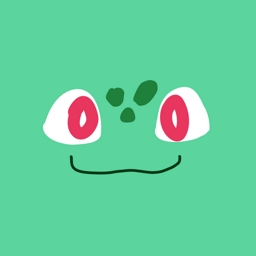
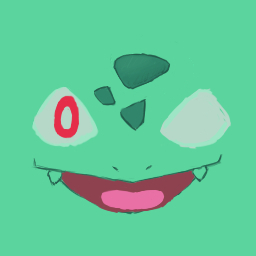
rework

Changed region(s): [[0.125, 0.1875, 0.9062, 0.8438]]

diff --git a/index.js b/index.js
@@ -5,7 +5,10 @@ var client = new Discordie({autoReconnect: true});
 var fs = require('file-system');
 
 var express = require('express');
+var ejs = require('ejs');
 var app = express();
+
+var http = require('http');
 
 var key = "~";
 
@@ -20,20 +23,41 @@ app.set('views', __dirname + '/views');
 app.set('view engine', 'ejs');
 
 app.get('/', function(request, response) {
-  response.render('pages/index');
+    response.render('pages/index');
 });
 
 app.listen(app.get('port'), function() {
   console.log('Node app is running on port', app.get('port'));
 });
 
+//
+// WEB x DISCORDIE
+//
+app.set("transform", "ditto");
 
-//
-// WEB->DISCORD
-//
-function disconnect() {
+app.get('/connect', function(request, response) {
+    client.connect({
+      token: process.env.BOT_SECRET
+    });
+    console.log("web: connect");
+    response.redirect('/');
+});
+
+app.get('/disconnect', function(request, response) {
     client.disconnect();
-}
+    console.log("web: disconnect");
+    response.redirect('/');
+});
+
+app.get('/beep', function(request, response, next) {
+    console.log("web: BEEP BEEP");
+    response.redirect('/');
+});
+
+app.get('/transform', function(request, response) {
+    //console.log("web: bestFruit!");
+    response.send( { pokemon : app.get("transform") } );
+});
 
 //
 // DISCORD
@@ -56,6 +80,8 @@ client.Dispatcher.on("MESSAGE_CREATE", e => {
     //console.log("key?:" + keyCheck);
     if(keyCheck != key) return;
     
+    deleteMsg(e.message, 3000);
+    
     msg = msg.slice(key.length, msg.length);
 	var args = msg.split(" ");
     //console.log("args0?:" + args[0]);
@@ -63,7 +89,11 @@ client.Dispatcher.on("MESSAGE_CREATE", e => {
 	//	PING
 	if(args[0].toLocaleLowerCase() == "ping") {
         console.log("replying to ping...");
-        e.message.channel.sendMessage("pong");
+        e.message.channel.sendMessage("pong").then(
+            function(msg) {
+                deleteMsg(msg, 3000);
+            }
+        )
     }
 
 	//	TRANSFORM
@@ -79,11 +109,23 @@ client.Dispatcher.on("MESSAGE_CREATE", e => {
         
 		switch(transformTarget) {
 			case "bulbasaur":
-				client.User.setAvatar(fs.readFileSync(__dirname + "/public/dd_bulbasaur.jpg"));
+				//client.User.setAvatar(fs.readFileSync(__dirname + "/public/dd_bulbasaur.jpg"));
+                app.set("transform", "bulbasaur");
+				success = true;
+				break;
+            case "charmander":
+				//client.User.setAvatar(fs.readFileSync(__dirname + "/public/dd_charmander.jpg"));
+                app.set("transform", "charmander");
+				success = true;
+				break;
+            case "squirtle":
+				//client.User.setAvatar(fs.readFileSync(__dirname + "/public/dd_squirtle.jpg"));
+                app.set("transform", "squirtle");
 				success = true;
 				break;
 			case "ditto":
 				client.User.setAvatar(fs.readFileSync(__dirname + "/public/dd_ditto.jpg"));
+                app.set("transform", "ditto");
 				success = true;
 				break;
 			default:
@@ -101,4 +143,25 @@ client.Dispatcher.on("MESSAGE_CREATE", e => {
     if(args[0].toLocaleLowerCase() == "disconnect") {
         client.disconnect();
     }
+    
+    // TEST
+    if(args[0].toLocaleLowerCase() == "bestfruit") {
+        var newNestFruit = msg.slice(args[0].length + 1, msg.length);
+        app.set("bestFruit", newNestFruit);
+        e.message.channel.sendMessage("Best Fruit is " + app.get("bestFruit"));
+    }
+    
+    
 });
+
+function deleteMsg(msg, delay) {
+    setTimeout(
+        function() {
+            msg.delete().then(
+                console.log("del")
+            ).catch(
+                console.log("!del")
+            );
+        }
+    , delay);
+}

diff --git a/public/stylesheets/main.css b/public/stylesheets/main.css
@@ -16,7 +16,7 @@ body {
 	background-color: #d084b5;
 }
 
-img {
+#dittoFace {
 	position: absolute;
 	width: 256px;
 	height: 256px;
